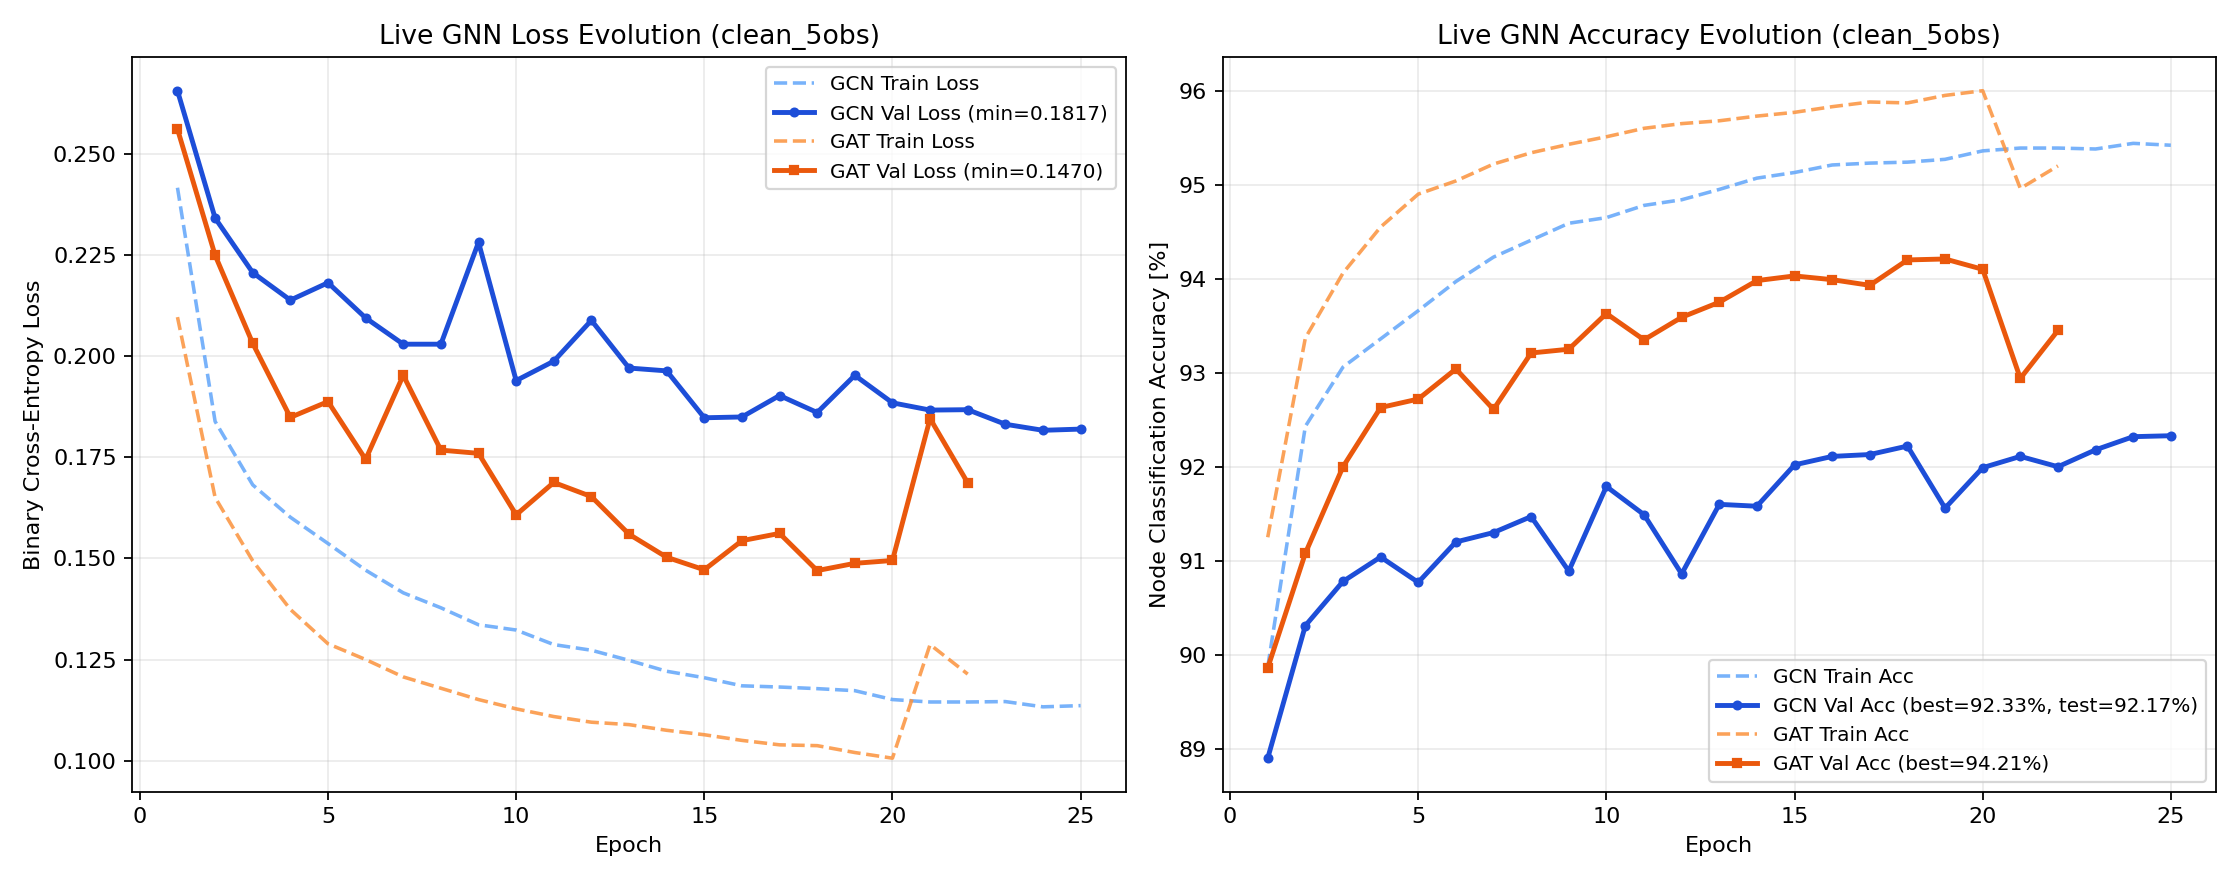
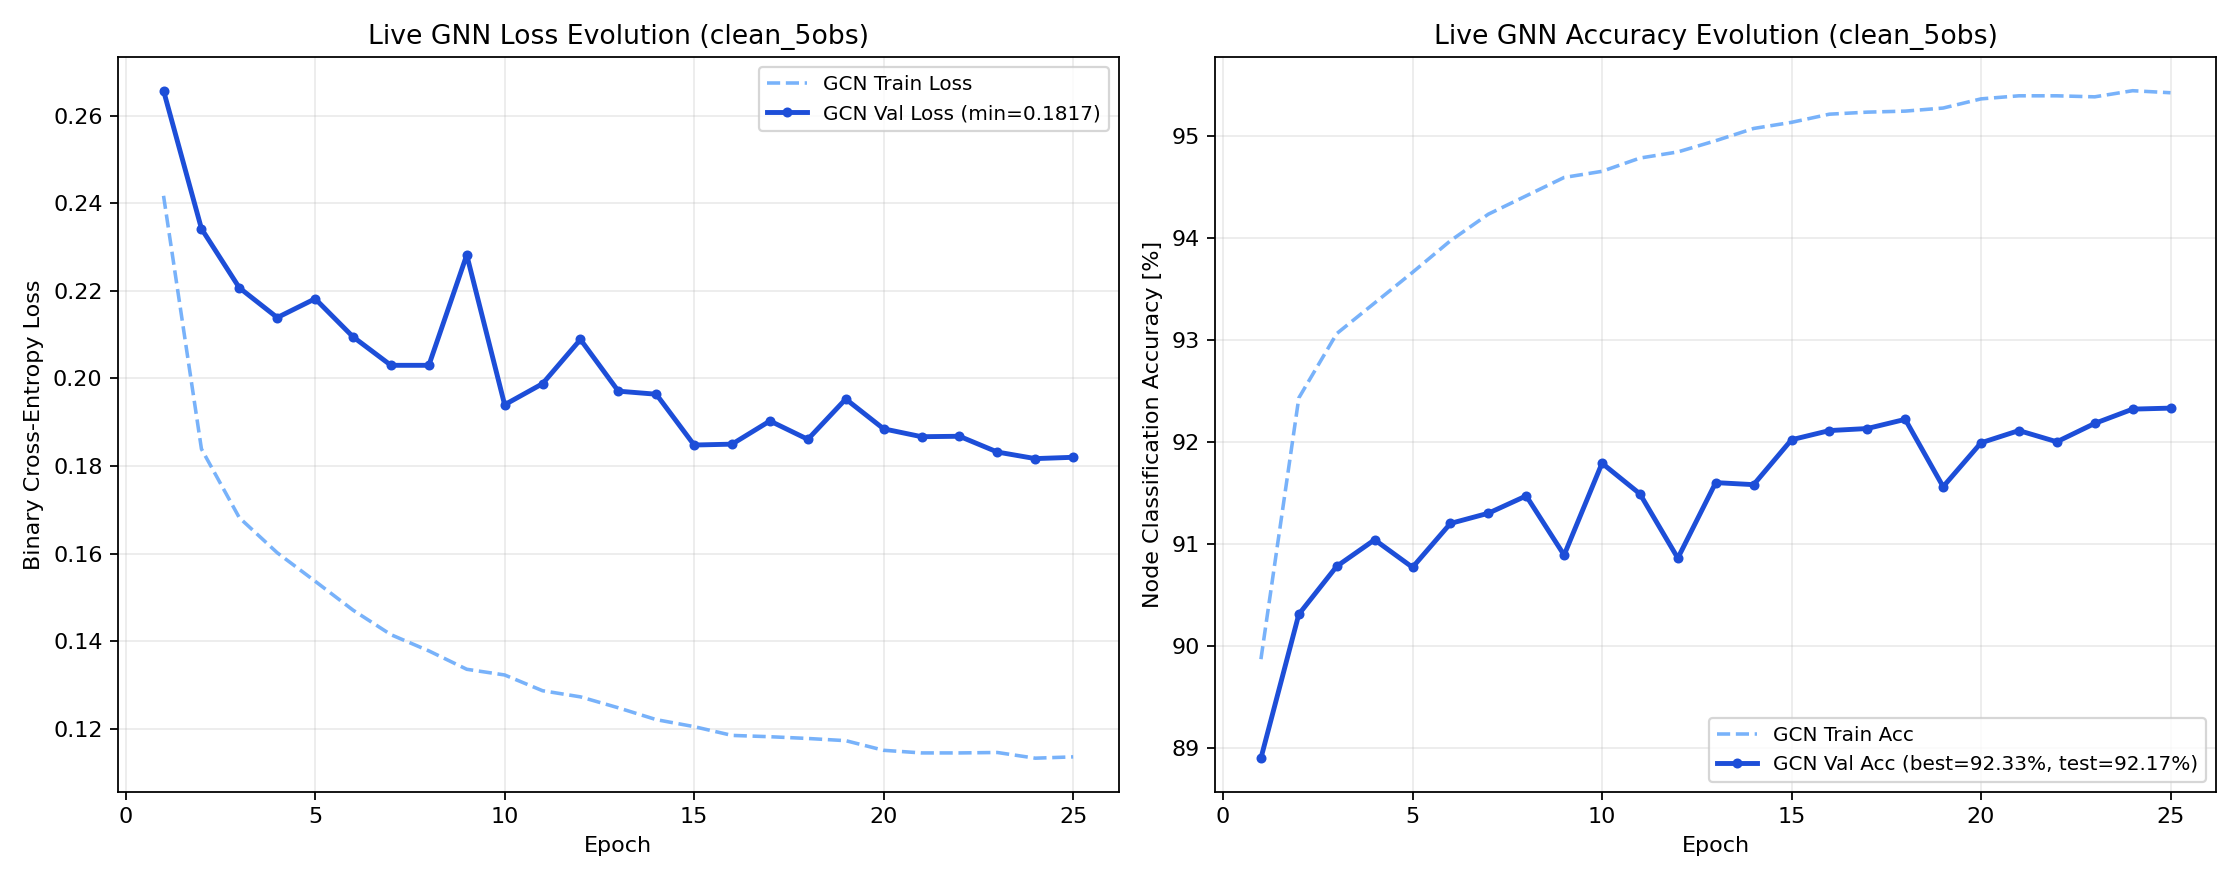
Update Study 2 live status and figures (2026-11-12 11:11)

diff --git a/LIVE_STATUS.md b/LIVE_STATUS.md
@@ -1,14 +1,13 @@
 # Live Pipeline Status on Jed
 
 ```text
-[2026-11-12 11:06:29] Study 2 Pipeline Status on Jed
+[2026-11-12 11:11:08] Study 2 Pipeline Status on Jed
 - Step 1 (Plummer ICs): 81 / 81 ready
 - Step 2 (SWIFT Runs): 81 / 81 completed (101 snapshots)
 - Step 3 (Observables): Labels=81/81 | Clean=81/81 | GaiaNoisy=81/81
 - Step 4 (5D Graphs): Clean=81/81 | GaiaNoisy=81/81
 - Step 5/6 Live GNN Training Progress:
   * clean_5obs/training_metrics_gcn_clean.log: Ep 025 | Train 0.1136 (95.42%) | Val 0.1820 (92.33%, Best=92.33%) | Test=92.17%
-- Saved Model Checkpoints (.pth): 2 mirrored in GNN-jed/trained_models/study2/weights/
 
 SLURM Queue:
 JOBID  PARTITION                   NAME   ST       TIME  NODES NODELIST(REASON)
@@ -17,16 +16,9 @@ JOBID  PARTITION                   NAME   ST       TIME  NODES NODELIST(REASON)
 
 ## Live Neural Network Training Metrics
 
-| Experiment | Architecture | Latest Epoch | Train Loss | Train Acc | Val Loss | Val Acc | Best Val Acc | Core FNR | Test Acc | Test F1 |
-| :--- | :---: | :---: | :---: | :---: | :---: | :---: | :---: | :---: | :---: | :---: |
-| `clean_5obs` | **GCN** | 25 | 0.1136 | 95.42% | 0.1820 | 92.33% | **92.33%** | - | **92.17%** | 0.8886 |
-
-## Saved Model Weights (`.pth` Checkpoints)
-
-| Checkpoint | Size | Experiment Path | Central Archive Mirror |
-| :--- | :---: | :--- | :--- |
-| `best_gat_clean_ep18_backup.pth` | 361.2 KB | `GNN-jed/trained_models/study2/clean_5obs/best_gat_clean_ep18_backup.pth` | `GNN-jed/trained_models/study2/weights/best_gat_clean_ep18_backup.pth` |
-| `best_gcn_clean.pth` | 120.0 KB | `GNN-jed/trained_models/study2/clean_5obs/best_gcn_clean.pth` | `GNN-jed/trained_models/study2/weights/best_gcn_clean.pth` |
+| Experiment | Architecture | Latest Epoch | Train Loss | Train Acc | Val Loss | Val Acc | Best Val Acc | Test Acc | Test F1 |
+| :--- | :---: | :---: | :---: | :---: | :---: | :---: | :---: | :---: | :---: |
+| `clean_5obs` | **GCN** | 25 | 0.1136 | 95.42% | 0.1820 | 92.33% | **92.33%** | **92.17%** | 0.8886 |
 
 ## Real-Time GNN Learning Curves (Loss & Accuracy Evolution)
 
